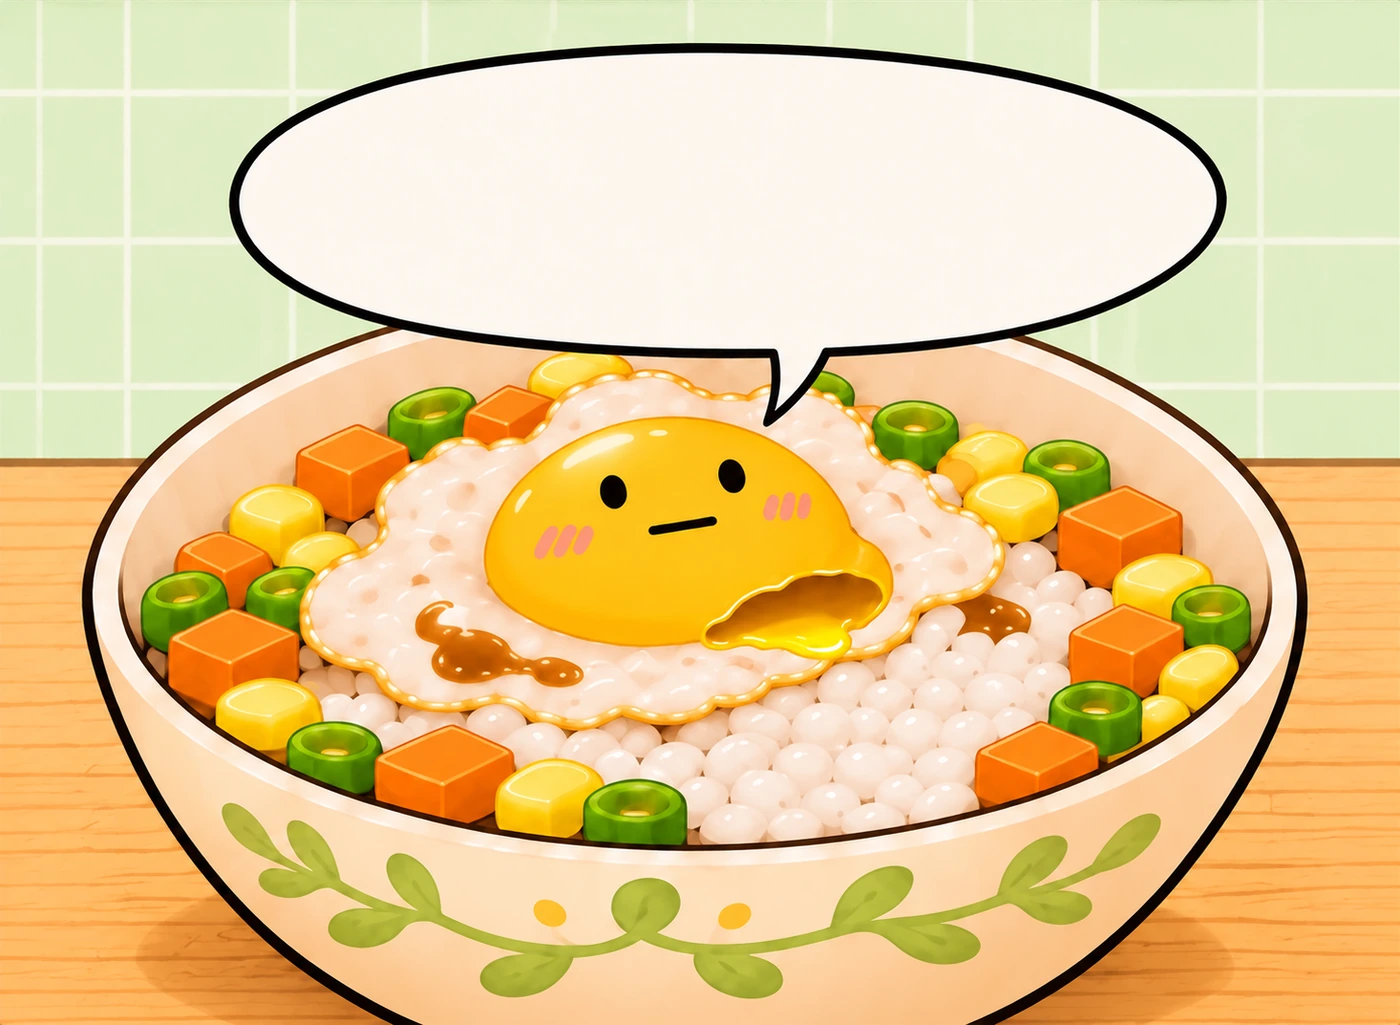
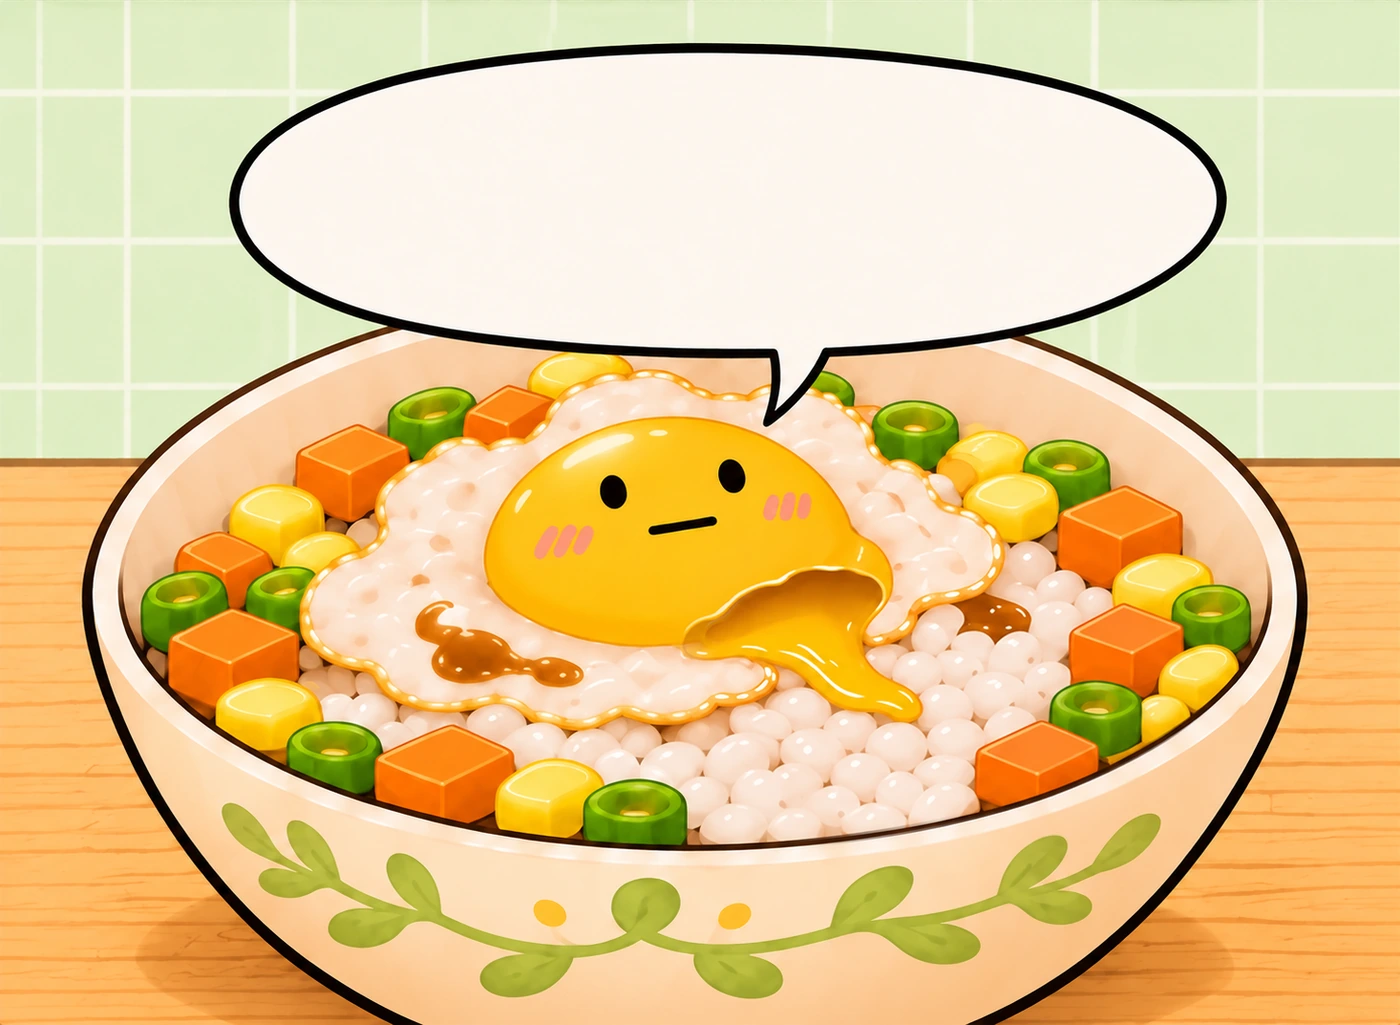
p6e: start from the medium spill (continuity with p6d) and only flow to 'more'; frame 1 no longer shown

diff --git a/src/app/preview/visual/PanelPerf.tsx b/src/app/preview/visual/PanelPerf.tsx
@@ -375,9 +375,10 @@ export function SaucePanel(props: { p: PanelSlot; pos: Place; dy: number; q: num
 
 /**
  * 结尾回答格 p6e "没事，是我拉肚子了。"（只在 punchline 段出现）。2026-11-15 用 ChatGPT 的三张新帧做"蛋黄流动"（tools/prepare_p6e_flow.py，public/assets/comic-v5/p6e/）：
- *   base = 第 1 帧（蛋黄刚破口，泡里是空的）；patch2 / patch3 = 第 2 / 3 帧里"蛋黄流出处"的一块羽化椭圆（已配准到第 1 帧），其余画面永远是第 1 帧。
+ *   base = 第 1 帧叠上第 2 帧"蛋黄流出处"的一块羽化椭圆（已配准到第 1 帧）：起点就是中等流量，接得上上一格 p6d（蛋黄已经流出来不少），泡里是空的；
+ *   patch3 = 第 3 帧里同一块椭圆（流得最远），其余画面永远是第 1 帧。
  *   为什么不整张交叉淡入：三张是各自重新生成的，碗沿、米粒的线条有细小差异，整张淡入会出现重影；只换流出处的一块，别处纹丝不动。
- *   蛋、蛋脸、碗都不动，只有蛋黄在流：第 1 秒多开始往外淌（patch2 淡入 0.9 s），再往前淌到最远（patch3 淡入 1.1 s），停在最远，不倒回去。
+ *   蛋、蛋脸、碗都不动，只有蛋黄在流：从中等流量继续往外淌到最远（patch3 淡入 1.4 s），停在最远，不倒回去（用户 2026-11-15：上一格已经流出来不少，只能"更多"，不能先缩回去）。
  * 对白：停顿 → 气泡以外的画面轻微降饱和、降对比（作用于底图和补丁）；泡本身用泡形遮罩（bubble.webp，alpha）叠一份不加滤镜的底图，保持奶油白；
  * 对白字层（text.webp，旧字层按新泡外框缩放）整句约半秒内从浅墨渐浓。进入稳定前泡里是空的。
  * 离场落到终态（降饱和 + 文字全显 + 蛋黄流到最远），复位回到原样。减少动态效果 / ?perf=0：直接显示终态静图（static.webp）。不加发光、投影、抖动。
@@ -389,17 +390,16 @@ export function DialoguePanel({ p, pos, dy, q, stage, animate }: { p: PanelSlot;
   const art = useRef<HTMLDivElement>(null);
   const els = useRef<Record<string, HTMLImageElement | null>>({});
   const tl = useRef<gsap.core.Timeline | null>(null);
-  const look = useRef({ dim: 0, ink: 0, show: 0, f2: 0, f3: 0 });
+  const look = useRef({ dim: 0, ink: 0, show: 0, f3: 0 });
   const apply = () => {
-    const { dim, ink, show, f2, f3 } = look.current;
+    const { dim, ink, show, f3 } = look.current;
     if (art.current) art.current.style.filter = `saturate(${1 - (1 - DIM.saturate) * dim}) contrast(${1 - (1 - DIM.contrast) * dim}) brightness(${1 + (DIM.brightness - 1) * dim})`;
     if (els.current.text) els.current.text.style.opacity = String(show * (0.22 + 0.78 * ink));
-    if (els.current.patch2) els.current.patch2.style.opacity = String(f2);
     if (els.current.patch3) els.current.patch3.style.opacity = String(f3);
   };
-  const setLook = (v: { dim: number; ink: number; show: number; f2: number; f3: number }) => { look.current = { ...v }; apply(); };
-  const reset = () => { tl.current?.kill(); tl.current = null; setLook({ dim: 0, ink: 0, show: 0, f2: 0, f3: 0 }); };
-  const stop = () => { if (!tl.current) return; tl.current.kill(); tl.current = null; setLook({ dim: 1, ink: 1, show: 1, f2: 1, f3: 1 }); };
+  const setLook = (v: { dim: number; ink: number; show: number; f3: number }) => { look.current = { ...v }; apply(); };
+  const reset = () => { tl.current?.kill(); tl.current = null; setLook({ dim: 0, ink: 0, show: 0, f3: 0 }); };
+  const stop = () => { if (!tl.current) return; tl.current.kill(); tl.current = null; setLook({ dim: 1, ink: 1, show: 1, f3: 1 }); };
   const play = () => {
     reset();
     const st = look.current;
@@ -407,8 +407,7 @@ export function DialoguePanel({ p, pos, dy, q, stage, animate }: { p: PanelSlot;
     t.to(st, { dim: 1, duration: 0.6, ease: "power1.inOut" }, 0); // 泡以外轻微降饱和、降对比
     t.to(st, { show: 1, duration: 0.12, ease: "none" }, 0.3); // 对白出现（浅墨）
     t.to(st, { ink: 1, duration: 0.5, ease: "power1.out" }, 0.3); // 从浅墨渐浓
-    t.to(st, { f2: 1, duration: 0.9, ease: "sine.inOut" }, 1.2); // 蛋黄往外淌
-    t.to(st, { f3: 1, duration: 1.1, ease: "sine.inOut" }, 2.6); // 再淌到最远，停住
+    t.to(st, { f3: 1, duration: 1.4, ease: "sine.inOut" }, 1.3); // 蛋黄接着往外淌，淌到最远，停住
     tl.current = t;
     debugTl("p6e", t);
   };
@@ -421,10 +420,9 @@ export function DialoguePanel({ p, pos, dy, q, stage, animate }: { p: PanelSlot;
   );
   return (
     <div className="panel-frame absolute overflow-hidden will-change-transform" style={{ ...boxStyle(pos, p.aspect, dy) }}>
-      {/* 会被降饱和的部分：底图 + 蛋黄流出处的两块补丁 */}
+      {/* 会被降饱和的部分：底图（中等流量）+ 蛋黄流出处的一块补丁（流到最远） */}
       <div ref={art} className="absolute inset-0">
         {layer("base", 1)}
-        {layer("patch2", 0)}
         {layer("patch3", 0)}
       </div>
       {/* 泡本身：同一张底图、不加滤镜，只露出泡形遮罩里的部分 */}

diff --git a/tools/prepare_p6e_flow.py b/tools/prepare_p6e_flow.py
@@ -2,7 +2,9 @@
 用法：python3 -I tools/prepare_p6e_flow.py <p6e-full-frames 目录>（p6e-frame-01/02/03.png，泡里没有字）
 三张都是重新生成的整格：碗、米饭、配菜的边线有细小差异，第 3 帧还缩放 / 微旋转了，整张交叉淡入会出现碗沿、米粒的重影。
 所以：SIFT + RANSAC 把第 2、3 帧仿射配准到第 1 帧；只取"蛋黄流出处"的一块椭圆（羽化边缘）叠在第 1 帧上，其余永远是第 1 帧。
-输出（1400 宽）：base = 第 1 帧；patch2 / patch3 = 第 2 / 3 帧的椭圆补丁（RGBA）；bubble = 泡形遮罩（alpha，奶油色连通域膨胀到包住描边）；
+2026-11-15 用户指出：上一格 p6d 里蛋黄已经流出来不少，这一格不能先缩回一点再淌。所以第 1 帧（刚破口）不再出现：
+起点 = 第 1 帧 + 第 2 帧补丁（中等流量，接得上 p6d），只往"更多"走（第 3 帧补丁淡入）。
+输出（1400 宽）：base = 第 1 帧叠上第 2 帧补丁（起点）；patch3 = 第 3 帧的椭圆补丁（RGBA，终点）；bubble = 泡形遮罩（alpha，奶油色连通域膨胀到包住描边）；
 text = 旧对白字层（comic-v3/p6e-text-c.webp）按新旧泡的外框对应缩放平移；static = 第 3 帧补丁 + 对白（终态，减少动态效果用）。
 """
 import sys
@@ -72,11 +74,11 @@ resized = old_text.resize((round(old_text.size[0] * sx), round(old_text.size[1] 
 tw.alpha_composite(resized, (round(nx0 - ox0 * sx), round(ny0 - oy0 * sy)))
 print("text scale", round(sx, 3), round(sy, 3))
 
-st = base.copy(); st.alpha_composite(P3); st.alpha_composite(tw)
+start = base.copy(); start.alpha_composite(P2)  # 起点：中等流量
+st = start.copy(); st.alpha_composite(P3); st.alpha_composite(tw)
 import os
 os.makedirs(OUT, exist_ok=True)
-base.convert("RGB").save(f"{OUT}/base.webp", quality=92, method=6)
-P2.save(f"{OUT}/patch2.webp", quality=92, method=6)
+start.convert("RGB").save(f"{OUT}/base.webp", quality=92, method=6)
 P3.save(f"{OUT}/patch3.webp", quality=92, method=6)
 mask.save(f"{OUT}/bubble.webp", quality=95, method=6)
 tw.save(f"{OUT}/text.webp", quality=95, method=6)
